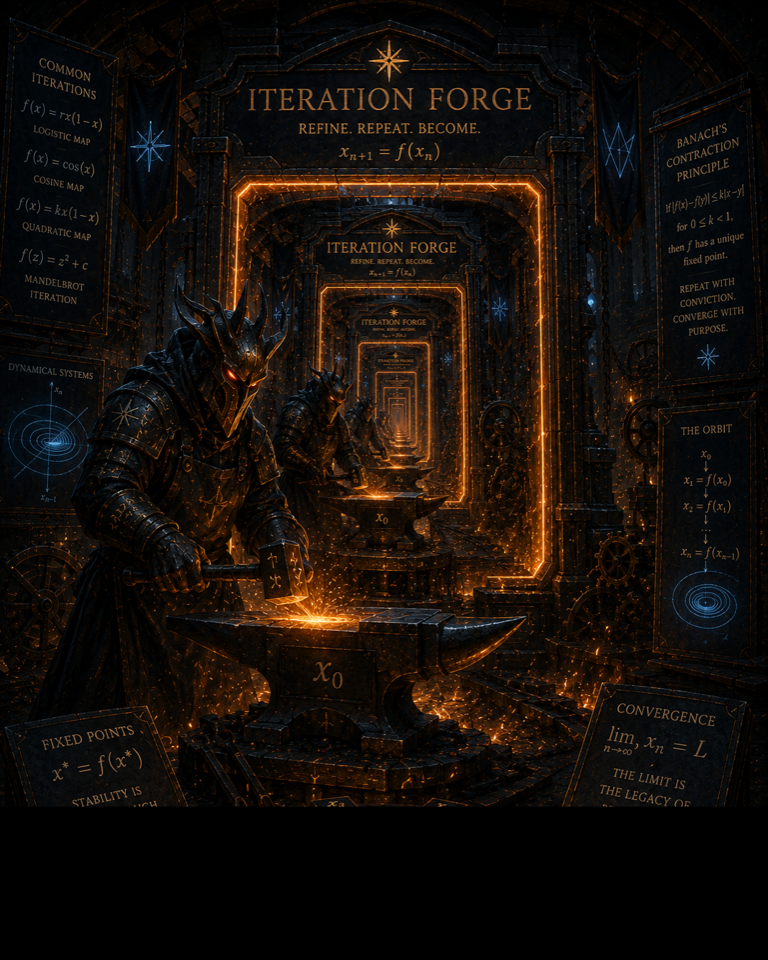
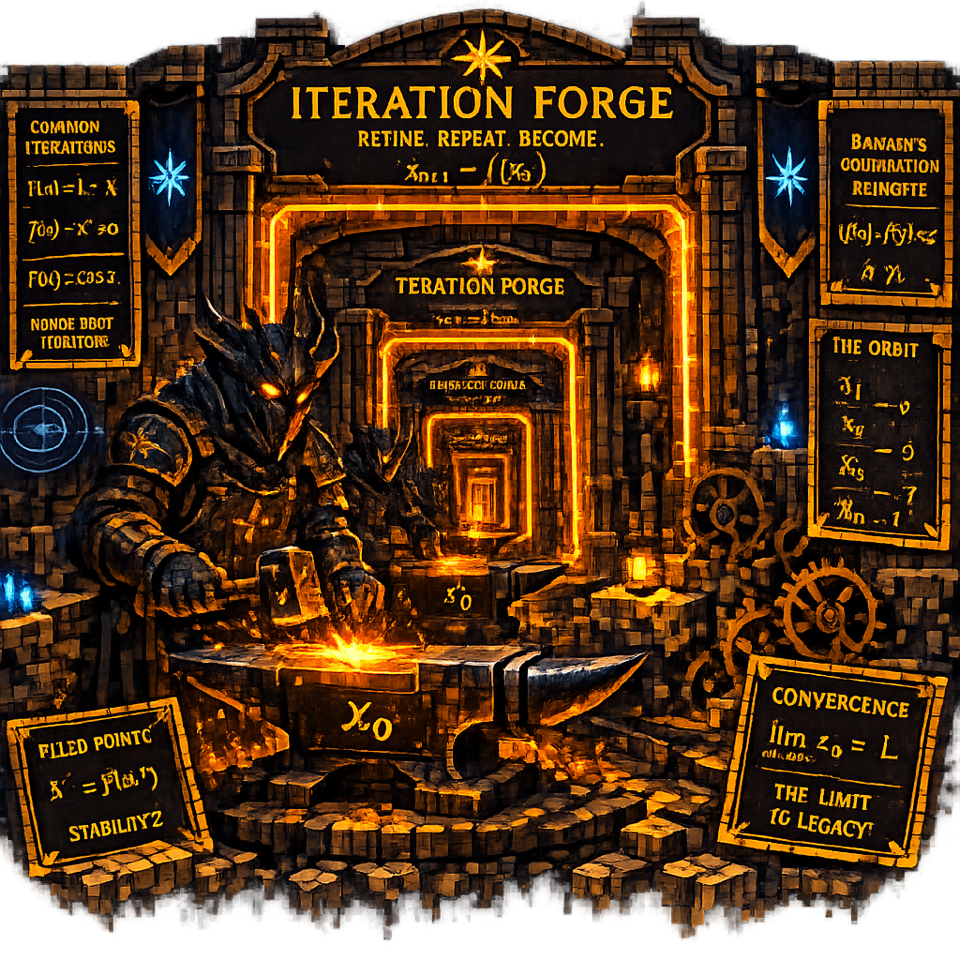
updated region art

diff --git a/src/lib/regionAssets.ts b/src/lib/regionAssets.ts
@@ -13,15 +13,15 @@ export const regionHubAssets = {
 export type RegionHubAssetId = keyof typeof regionHubAssets;
 
 export const regionHubAssetDimensions = {
-  'algebra-forge': { width: 960, height: 640 },
-  'calculus-cliffs': { width: 720, height: 960 },
-  'complex-harbor': { width: 768, height: 960 },
-  'differential-shrine': { width: 640, height: 960 },
-  'integration-gardens': { width: 640, height: 960 },
-  'logarithm-grove': { width: 960, height: 640 },
-  'numerical-mines': { width: 768, height: 960 },
-  'trig-observatory': { width: 768, height: 960 },
-  'vector-workshop': { width: 960, height: 640 },
+  'algebra-forge': { width: 960, height: 960 },
+  'calculus-cliffs': { width: 960, height: 960 },
+  'complex-harbor': { width: 960, height: 960 },
+  'differential-shrine': { width: 960, height: 960 },
+  'integration-gardens': { width: 960, height: 960 },
+  'logarithm-grove': { width: 960, height: 960 },
+  'numerical-mines': { width: 960, height: 960 },
+  'trig-observatory': { width: 960, height: 960 },
+  'vector-workshop': { width: 960, height: 960 },
 } as const;
 
 export function getRegionHubAsset(regionId: string): string | undefined {

diff --git a/tests/regionAssets.test.ts b/tests/regionAssets.test.ts
@@ -28,13 +28,13 @@ describe('region hub assets', () => {
     }
   });
 
-  it('keeps optimized runtime region art substantially smaller than source art', () => {
+  it('keeps generated runtime region art no larger than source art', () => {
     const sourceRoot = join(process.cwd(), 'assets-source/region-art');
     const optimizedRoot = join(process.cwd(), 'public/assets/region-art/optimized');
     const sourceBytes = directoryFiles(sourceRoot).reduce((sum, file) => sum + statSync(file).size, 0);
     const optimizedBytes = directoryFiles(optimizedRoot).reduce((sum, file) => sum + statSync(file).size, 0);
 
-    expect(optimizedBytes).toBeLessThan(sourceBytes * 0.5);
+    expect(optimizedBytes).toBeLessThan(sourceBytes);
   });
 
   it('keeps RegionHub from hard-coding public region-art paths', () => {
